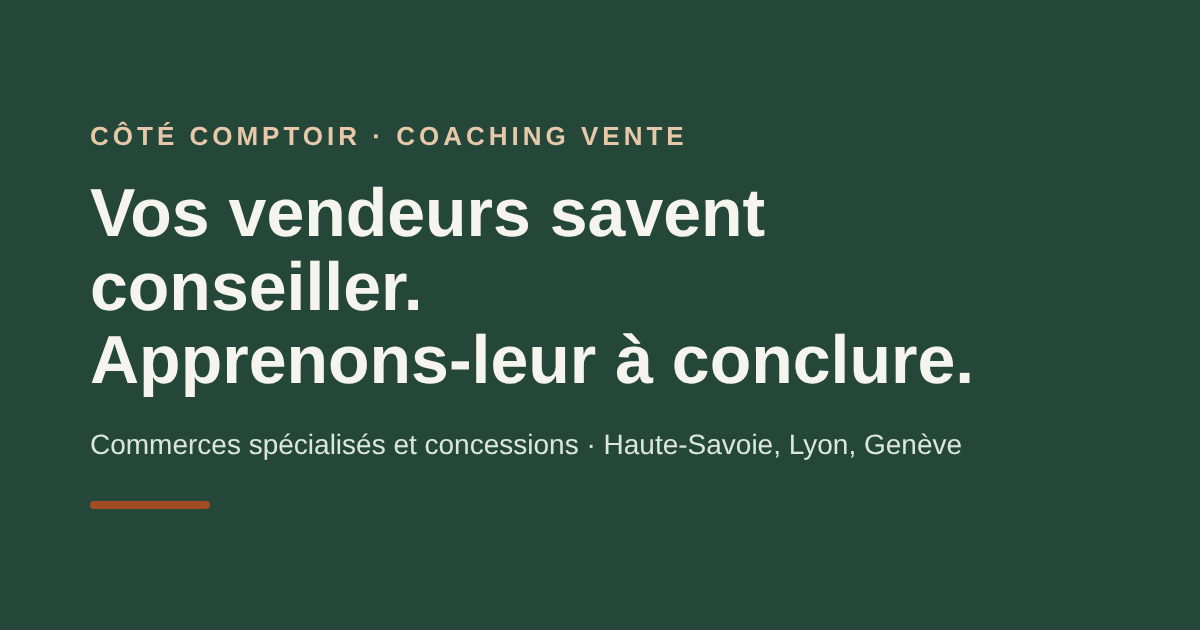
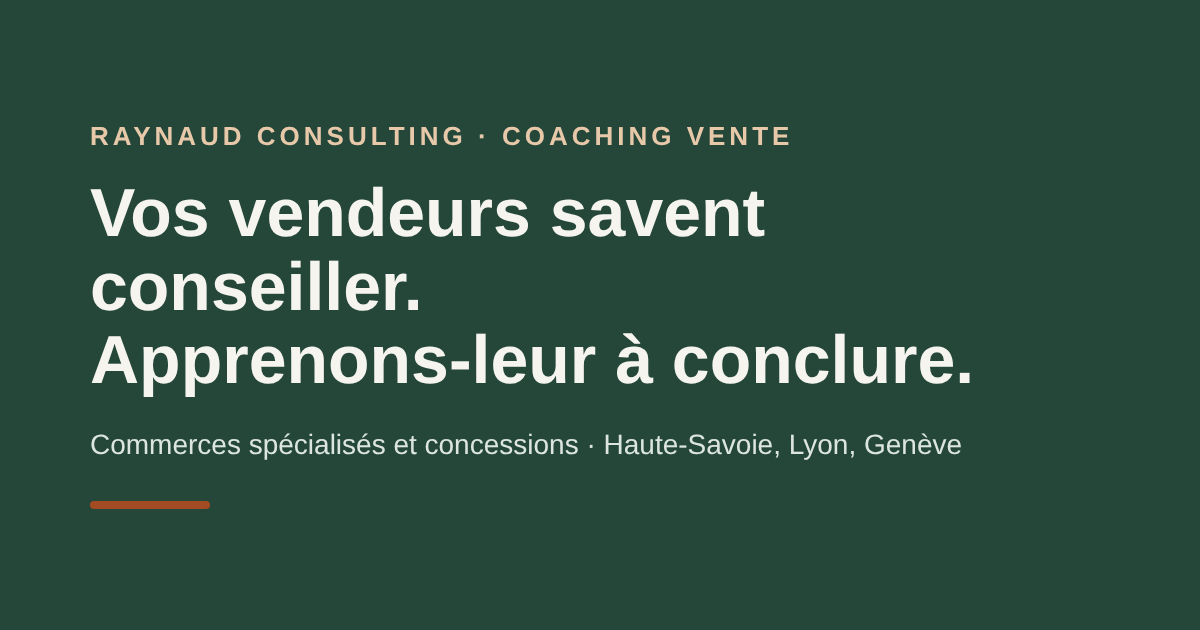
Nom définitif : Raynaud Consulting
Claude-Session: https://claude.ai/code/session_0161zJMtCFfV81ACgwLPUevq

Changed region(s): [[0.0617, 0.181, 0.6783, 0.2413]]

diff --git a/index.html b/index.html
@@ -3,29 +3,28 @@
 <head>
 <meta charset="utf-8">
 <meta name="viewport" content="width=device-width, initial-scale=1">
-<title>Côté Comptoir – Coaching vente pour commerces spécialisés et concessions | Haute-Savoie, Lyon, Genève</title>
+<title>Raynaud Consulting – Coaching vente pour commerces spécialisés et concessions | Haute-Savoie, Lyon, Genève</title>
 <meta name="description" content="Coaching et formation vente terrain pour magasins indépendants et concessions (moto, vélo, outdoor, auto, maison) : panier moyen, vente additionnelle, salons. Haute-Savoie, Savoie, Ain, Lyon, Genève.">
 <meta name="author" content="Quentin Raynaud">
 <meta name="robots" content="index, follow">
-<link rel="canonical" href="https://raynaudquent.github.io/cote-comptoir/">
+<link rel="canonical" href="https://raynaudquent.github.io/raynaud-consulting/">
 <link rel="icon" href="favicon.svg" type="image/svg+xml">
 <meta name="theme-color" content="#24473A">
 <meta property="og:type" content="website">
 <meta property="og:locale" content="fr_FR">
-<meta property="og:site_name" content="Côté Comptoir">
-<meta property="og:title" content="Côté Comptoir – Vos vendeurs savent conseiller. Apprenons-leur à conclure.">
+<meta property="og:site_name" content="Raynaud Consulting">
+<meta property="og:title" content="Raynaud Consulting – Vos vendeurs savent conseiller. Apprenons-leur à conclure.">
 <meta property="og:description" content="Coaching vente terrain pour commerces spécialisés et concessions : panier moyen, vente additionnelle, salons.">
-<meta property="og:url" content="https://raynaudquent.github.io/cote-comptoir/">
-<meta property="og:image" content="https://raynaudquent.github.io/cote-comptoir/og-image.png">
+<meta property="og:url" content="https://raynaudquent.github.io/raynaud-consulting/">
+<meta property="og:image" content="https://raynaudquent.github.io/raynaud-consulting/og-image.png">
 <meta name="twitter:card" content="summary_large_image">
 <script type="application/ld+json">
 {
   "@context": "https://schema.org",
   "@type": "ProfessionalService",
-  "name": "Côté Comptoir",
-  "alternateName": "Raynaud Consulting",
-  "description": "Coaching et formation vente terrain pour commerces spécialisés et concessions : panier moyen, vente additionnelle, préparation des salons.",
-  "url": "https://raynaudquent.github.io/cote-comptoir/",
+  "name": "Raynaud Consulting",
+    "description": "Coaching et formation vente terrain pour commerces spécialisés et concessions : panier moyen, vente additionnelle, préparation des salons.",
+  "url": "https://raynaudquent.github.io/raynaud-consulting/",
   "telephone": "+33743506722",
   "priceRange": "350 € – 1 400 € HT",
   "address": {"@type": "PostalAddress", "addressLocality": "Seyssel", "postalCode": "74910", "addressRegion": "Haute-Savoie", "addressCountry": "FR"},
@@ -57,11 +56,11 @@ input,textarea,select{font:inherit}
 <!-- En-tête -->
 <header style="border-bottom: 1px solid #DDD8CC; background: #F6F4EF">
 <div style="max-width: 1200px; margin: 0 auto; padding: 20px 24px; display: flex; flex-wrap: wrap; align-items: center; justify-content: space-between; gap: 16px">
-<a href="#accueil" aria-label="Côté Comptoir, retour en haut" style="display: flex; align-items: center; gap: 12px; text-decoration: none; color: #1C2321">
-<div style="width: 44px; height: 44px; border-radius: 10px; background: #24473A; color: #F6F4EF; display: flex; align-items: center; justify-content: center; font-family: Archivo, sans-serif; font-weight: 800; font-size: 1rem; text-align: center; line-height: 1.1" aria-hidden="true">CC</div>
+<a href="#accueil" aria-label="Raynaud Consulting, retour en haut" style="display: flex; align-items: center; gap: 12px; text-decoration: none; color: #1C2321">
+<div style="width: 44px; height: 44px; border-radius: 10px; background: #24473A; color: #F6F4EF; display: flex; align-items: center; justify-content: center; font-family: Archivo, sans-serif; font-weight: 800; font-size: 1rem; text-align: center; line-height: 1.1" aria-hidden="true">RC</div>
 <div style="display: flex; flex-direction: column; line-height: 1.15">
-<span style="font-family: Archivo, sans-serif; font-weight: 800; font-size: 1.25rem; letter-spacing: 0.02em">Côté Comptoir</span>
-<span style="font-size: 0.8125rem; color: #55605B">Coaching vente · Raynaud Consulting</span>
+<span style="font-family: Archivo, sans-serif; font-weight: 800; font-size: 1.25rem; letter-spacing: 0.02em">Raynaud Consulting</span>
+<span style="font-size: 0.8125rem; color: #55605B">Coaching vente terrain</span>
 </div>
 </a>
 <nav aria-label="Navigation principale" style="display: flex; flex-wrap: wrap; align-items: center; gap: 8px 24px">
@@ -280,7 +279,7 @@ input,textarea,select{font:inherit}
 <!-- Pied de page -->
 <footer style="background: #1C2321; color: #C9D1CC">
 <div style="max-width: 1200px; margin: 0 auto; padding: 28px 24px; display: flex; flex-wrap: wrap; gap: 12px 24px; justify-content: space-between; font-size: 0.9375rem">
-<span>© 2026 Côté Comptoir · Raynaud Consulting</span>
+<span>© 2026 Raynaud Consulting</span>
 <span style="display: flex; gap: 24px"><a href="https://www.linkedin.com/in/quentin-raynaud-825677b0/" target="_blank" rel="noopener" style="color: #C9D1CC">LinkedIn</a><a href="mentions-legales.html" style="color: #C9D1CC">Mentions légales</a></span>
 </div>
 </footer>

diff --git a/404.html b/404.html
@@ -1,4 +1,4 @@
 <!doctype html>
-<html lang="fr"><head><meta charset="utf-8"><meta name="viewport" content="width=device-width, initial-scale=1"><meta name="robots" content="noindex"><title>Page introuvable – Côté Comptoir</title><link rel="icon" href="favicon.svg" type="image/svg+xml">
+<html lang="fr"><head><meta charset="utf-8"><meta name="viewport" content="width=device-width, initial-scale=1"><meta name="robots" content="noindex"><title>Page introuvable – Raynaud Consulting</title><link rel="icon" href="favicon.svg" type="image/svg+xml">
 <style>body{margin:0;min-height:100vh;display:flex;align-items:center;justify-content:center;background:#F6F4EF;color:#1C2321;font-family:system-ui,sans-serif;text-align:center;padding:24px}a{color:#A34B22;font-weight:600}</style></head>
-<body><div><h1>Page introuvable</h1><p>Cette page n'existe pas ou a été déplacée.</p><p><a href="./">Retour à l'accueil de Côté Comptoir</a></p></div></body></html>
+<body><div><h1>Page introuvable</h1><p>Cette page n'existe pas ou a été déplacée.</p><p><a href="./">Retour à l'accueil de Raynaud Consulting</a></p></div></body></html>

diff --git a/mentions-legales.html b/mentions-legales.html
@@ -3,7 +3,7 @@
 <head>
 <meta charset="utf-8">
 <meta name="viewport" content="width=device-width, initial-scale=1">
-<title>Mentions légales – Côté Comptoir</title>
+<title>Mentions légales – Raynaud Consulting</title>
 <meta name="robots" content="noindex">
 <link rel="icon" href="favicon.svg" type="image/svg+xml">
 <link rel="stylesheet" href="https://fonts.googleapis.com/css2?family=Archivo:wght@700;800&amp;family=Source+Sans+3:wght@400;600&amp;display=swap">
@@ -21,7 +21,7 @@ a{color:#A34B22}
 <p><a href="index.html">← Retour à l'accueil</a></p>
 <h1>Mentions légales</h1>
 <h2>Éditeur du site</h2>
-<p>Côté Comptoir – Raynaud Consulting<br>
+<p>Raynaud Consulting<br>
 Quentin Raynaud<br>
 [FORME JURIDIQUE – ex. entreprise individuelle]<br>
 [ADRESSE POSTALE]<br>

diff --git a/README.md b/README.md
@@ -1,4 +1,4 @@
-# Côté Comptoir – coaching vente (Raynaud Consulting)
+# Raynaud Consulting – coaching vente
 
 Site vitrine statique (HTML + CSS, sans dépendance) de l'activité de coaching vente pour commerces spécialisés et concessions.
 
@@ -21,10 +21,10 @@ Site vitrine statique (HTML + CSS, sans dépendance) de l'activité de coaching 
 
 ## Publication avec GitHub Pages
 Settings → Pages → Source : « Deploy from a branch », branche `main`, dossier `/ (root)`.
-Adresse : https://raynaudquent.github.io/cote-comptoir/
+Adresse : https://raynaudquent.github.io/raynaud-consulting/
 
 ## Nom de domaine
-Quand un domaine est choisi (ex. cote-comptoir.fr) : le renseigner dans Settings → Pages → Custom domain, configurer le DNS chez le registrar, puis remplacer l'adresse GitHub Pages dans `index.html` (canonical, og:url, og:image, JSON-LD), `robots.txt` et `sitemap.xml`.
+Quand un domaine est choisi (ex. raynaud-consulting.fr) : le renseigner dans Settings → Pages → Custom domain, configurer le DNS chez le registrar, puis remplacer l'adresse GitHub Pages dans `index.html` (canonical, og:url, og:image, JSON-LD), `robots.txt` et `sitemap.xml`.
 
 ## Après la mise en ligne
 - Déclarer le site dans Google Search Console et envoyer `sitemap.xml`.
